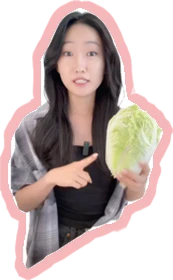
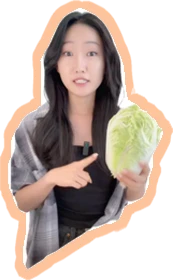
Landing path: Adam's picks (Didi Part 7, Hayden Home Part 1, Grace Kimchi); stickers light with the Play coin

Changed region(s): [[0.0, 0.0, 1.0, 1.0]]

diff --git a/apps/web/components/LessonPath.tsx b/apps/web/components/LessonPath.tsx
@@ -6,7 +6,7 @@ import DownloadCta from "@/components/DownloadCta";
 // "Your path to conversational fluency" (mockup P1, Adam 11/11–11/17): the app's own lesson path (LessonHubPath:
 // coins with a 3D lip on the wave, a sticker beside each indent, gray until earned) for three real lessons. The
 // heading pins while the path scrolls up past it with the page, and a coin flips to its lesson's color the moment
-// its centre passes a line a bit below mid-screen (its sticker colors in with it). Scrolling back up never un-lights one.
+// its centre passes a line a bit below mid-screen (a lesson's sticker colors in with its Play coin). Scrolling back up never un-lights one.
 // No pulse, no labels, no transitions.
 
 export type PathLesson = {
@@ -60,9 +60,11 @@ function layout(lessons: PathLesson[]) {
   let y = 0, g = 0;
   const heads: { top: number; lesson: PathLesson }[] = [];
   const coins: { kind: Kind; left: number; top: number; accent: string }[] = [];
-  const stickers: { node: number; left: number; top: number; w: number; h: number; r: number; lesson: PathLesson }[] = [];
+  // `first` = the lesson's Play coin: its sticker colors in with that one (Adam 11/17), not with its own indent coin.
+  const stickers: { node: number; first: number; left: number; top: number; w: number; h: number; r: number; lesson: PathLesson }[] = [];
   const nodes: number[] = [];
   lessons.forEach((L, li) => {
+    const first = g;
     heads.push({ top: y, lesson: L });
     y += HEAD_H;
     const order = ORDERS[li % ORDERS.length];
@@ -74,7 +76,7 @@ function layout(lessons: PathLesson[]) {
         const side = x > 0 ? -1 : 1;
         const edge = W / 2 + x + side * (COIN / 2 + 14), cx = (edge + (side < 0 ? 0 : W)) / 2;
         const ar = L.sticker.w / L.sticker.h;
-        stickers.push({ node: g, left: cx, top: cy, w: ar >= 1 ? BOX : BOX * ar, h: ar >= 1 ? BOX / ar : BOX, r: side < 0 ? 5 : -5, lesson: L });
+        stickers.push({ node: g, first, left: cx, top: cy, w: ar >= 1 ? BOX : BOX * ar, h: ar >= 1 ? BOX / ar : BOX, r: side < 0 ? 5 : -5, lesson: L });
       }
       nodes.push(cy);
       y += rowH;
@@ -140,7 +142,7 @@ export default function LessonPath({ title, subtitle, ctaLabel, tracking, lesson
         if (next === best) return;
         best = next;
         coins.forEach((c, i) => c.classList.toggle("lp-done", i < best));
-        stks.forEach((st) => st.classList.toggle("lp-on", Number(st.dataset.node) < best));
+        stks.forEach((st) => st.classList.toggle("lp-on", Number(st.dataset.first) < best));
       },
       { rootMargin: `0px 0px -${Math.round((1 - LIGHT_AT) * 100)}% 0px` },
     );
@@ -187,7 +189,7 @@ export default function LessonPath({ title, subtitle, ctaLabel, tracking, lesson
               <div
                 key={`s${st.node}`}
                 className="lp-pst"
-                data-node={st.node}
+                data-first={st.first}
                 style={{ ["--r" as string]: `${st.r}deg`, left: st.left, top: st.top, width: st.w, height: st.h }}
               >
                 <img className="lp-gray" src={`/landing/path-${st.lesson.sticker.id}-locked.webp`} alt="" />

diff --git a/apps/web/components/SimpleLanding.tsx b/apps/web/components/SimpleLanding.tsx
@@ -45,13 +45,12 @@ const KOREAN_TUTOR_SLUGS = [
   "korean-didi",
 ];
 
-// The path section's three real lessons (Didi, Mia, Hayden), each in its own accent with one of its own
-// stickers beside its indent coin (public/landing/path-<id>-{locked,accent}.webp, w × h).
+// The path section's three real lessons (Didi, Hayden, Grace: Adam's picks 11/17), each in its own lesson accent
+// with one of its own stickers beside its indent coin (public/landing/path-<id>-{locked,accent}.webp, w × h).
 const PATH_LESSONS: { lesson_id: string; accent: string; sticker: PathLesson["sticker"] }[] = [
-  { lesson_id: "f06bb7cb-b337-4fcf-8ddb-f30df8279237", accent: "#3ADAFF", sticker: { id: "053", w: 220, h: 280 } }, // Didi's late-night show, the mic
-  { lesson_id: "87641d82-ac46-48e5-8de1-1ed0b3e6edac", accent: "#C8C5F0", sticker: { id: "033", w: 280, h: 243 } }, // Hayden's home tour
-  // Grace's kimchi lesson replaces Mia's music box; Didi → Hayden → Grace (Adam 11/17).
-  { lesson_id: "09f99480-beb1-4269-8bf1-208f8d340dd0", accent: "#F6B8BB", sticker: { id: "grace-kimchi", w: 173, h: 280 } }, // Grace, Making Kimchi
+  { lesson_id: "b66d4cb2-701f-43fb-b9b4-a10ec5ffa75e", accent: "#3ADAFF", sticker: { id: "didi-scary", w: 280, h: 205 } }, // Didi, 무서운 이야기 Part 7
+  { lesson_id: "9a2983f0-f768-49d7-8bce-7a73b92bcecc", accent: "#C8C5F0", sticker: { id: "hayden-home1", w: 280, h: 218 } }, // Hayden, Tour my Home Part 1
+  { lesson_id: "09f99480-beb1-4269-8bf1-208f8d340dd0", accent: "#FDC39C", sticker: { id: "grace-kimchi", w: 173, h: 280 } }, // Grace, Making Kimchi
 ];
 
 const SCREENSHOT_KEYS = [
